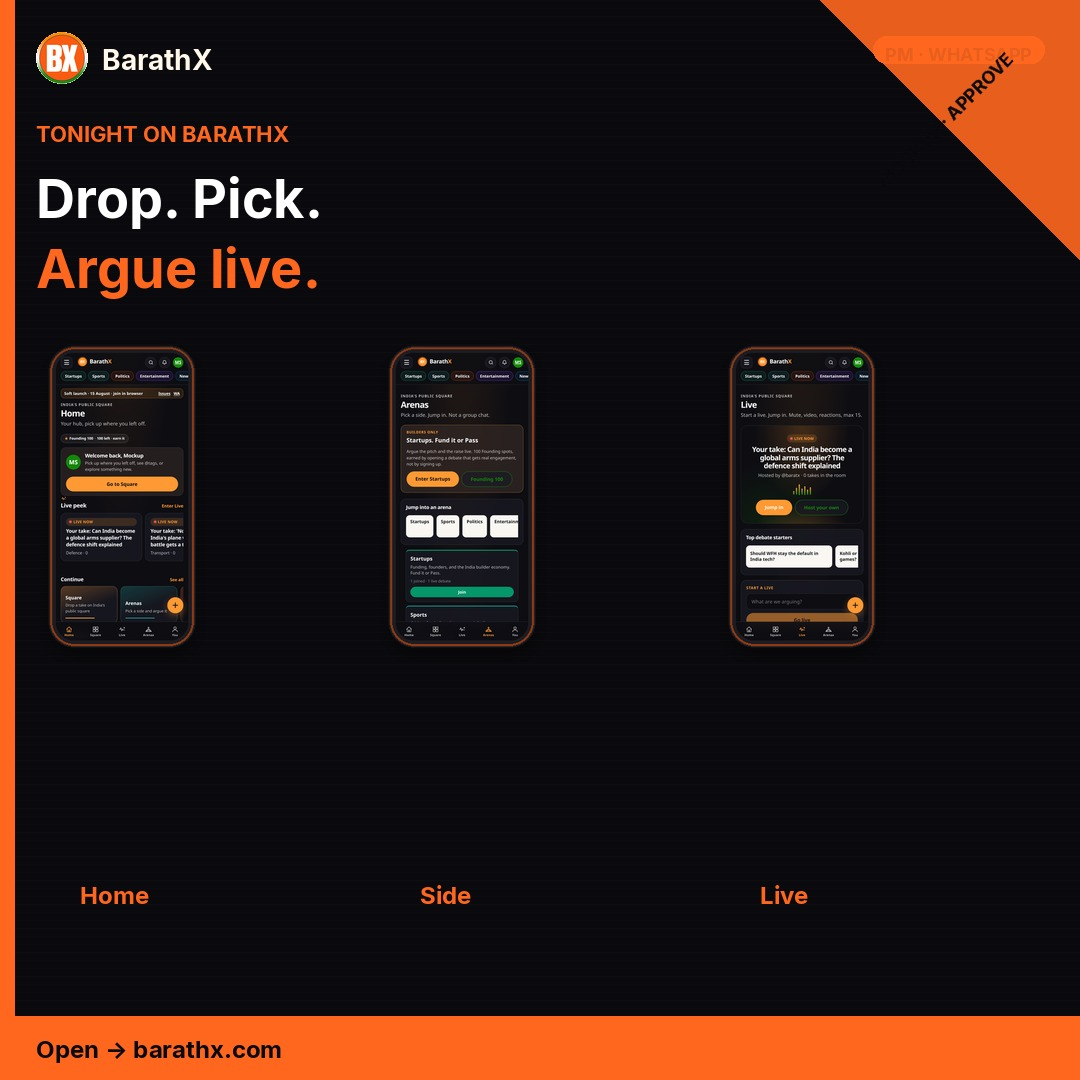
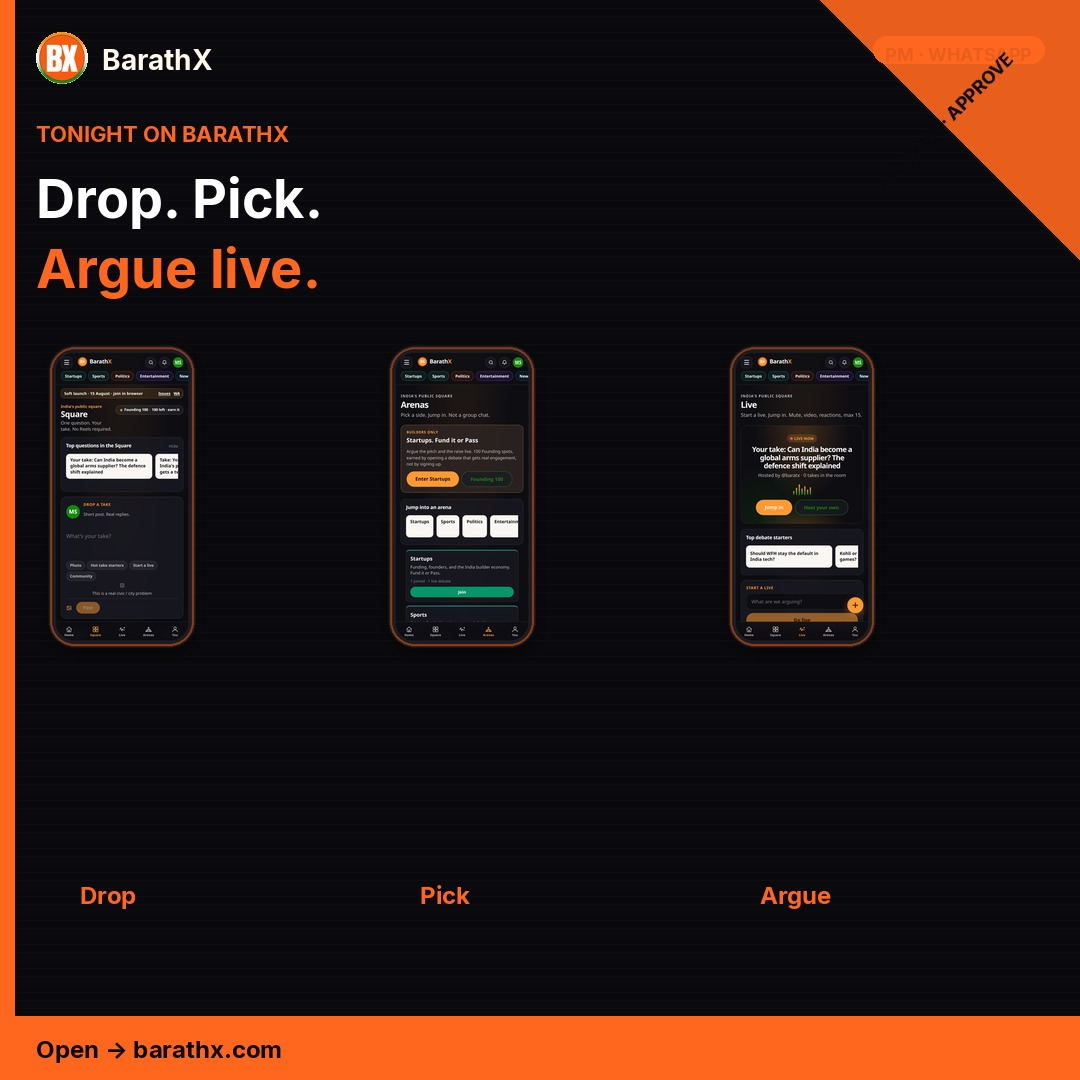
fix: evening WA mockup uses current Square/Arenas/Live only
Replace legacy Write/desktop phones with Drop/Pick/Argue screens
from the live-2026-08-16 product captures.

diff --git a/brand/social/daily/render_daily_crosspost.py b/brand/social/daily/render_daily_crosspost.py
@@ -250,14 +250,15 @@ def morning_linkedin(*, for_approval: bool) -> Image.Image:
 
 
 def evening_whatsapp(*, for_approval: bool) -> Image.Image:
-    """Family/community WA style — product proof strip."""
+    """Family/community WA style — current product: Square · Arenas · Live."""
     base, d = canvas()
     stamp(base, d, pill="PM · WHATSAPP")
     d.text((36, 120), "TONIGHT ON BARATHX", font=fnt(22), fill=SAFFRON)
     d.text((36, 165), "Drop. Pick.", font=fnt(54), fill=WHITE)
     d.text((36, 235), "Argue live.", font=fnt(54), fill=SAFFRON)
 
-    phones = [("home", "Home"), ("arenas", "Side"), ("live", "Live")]
+    # Current mobile UI only (no legacy desktop compose / old screens).
+    phones = [("square", "Drop"), ("arenas", "Pick"), ("live", "Argue")]
     layer = base.convert("RGBA")
     xs = [40, 380, 720]
     for (name, label), x in zip(phones, xs):

diff --git a/brand/social/daily/2026-08-17/PACK.md b/brand/social/daily/2026-08-17/PACK.md
@@ -73,7 +73,7 @@ https://barathx.com
 | Channel | File |
 |---------|------|
 | X (shared highlight) | `evening-shared.jpg` |
-| WhatsApp | `evening-whatsapp.jpg` |
+| WhatsApp | `evening-whatsapp.jpg` (Square · Arenas · Live — current UI) |
 | LinkedIn | reuse `evening-shared.jpg` |
 
 ### WhatsApp community / channel
